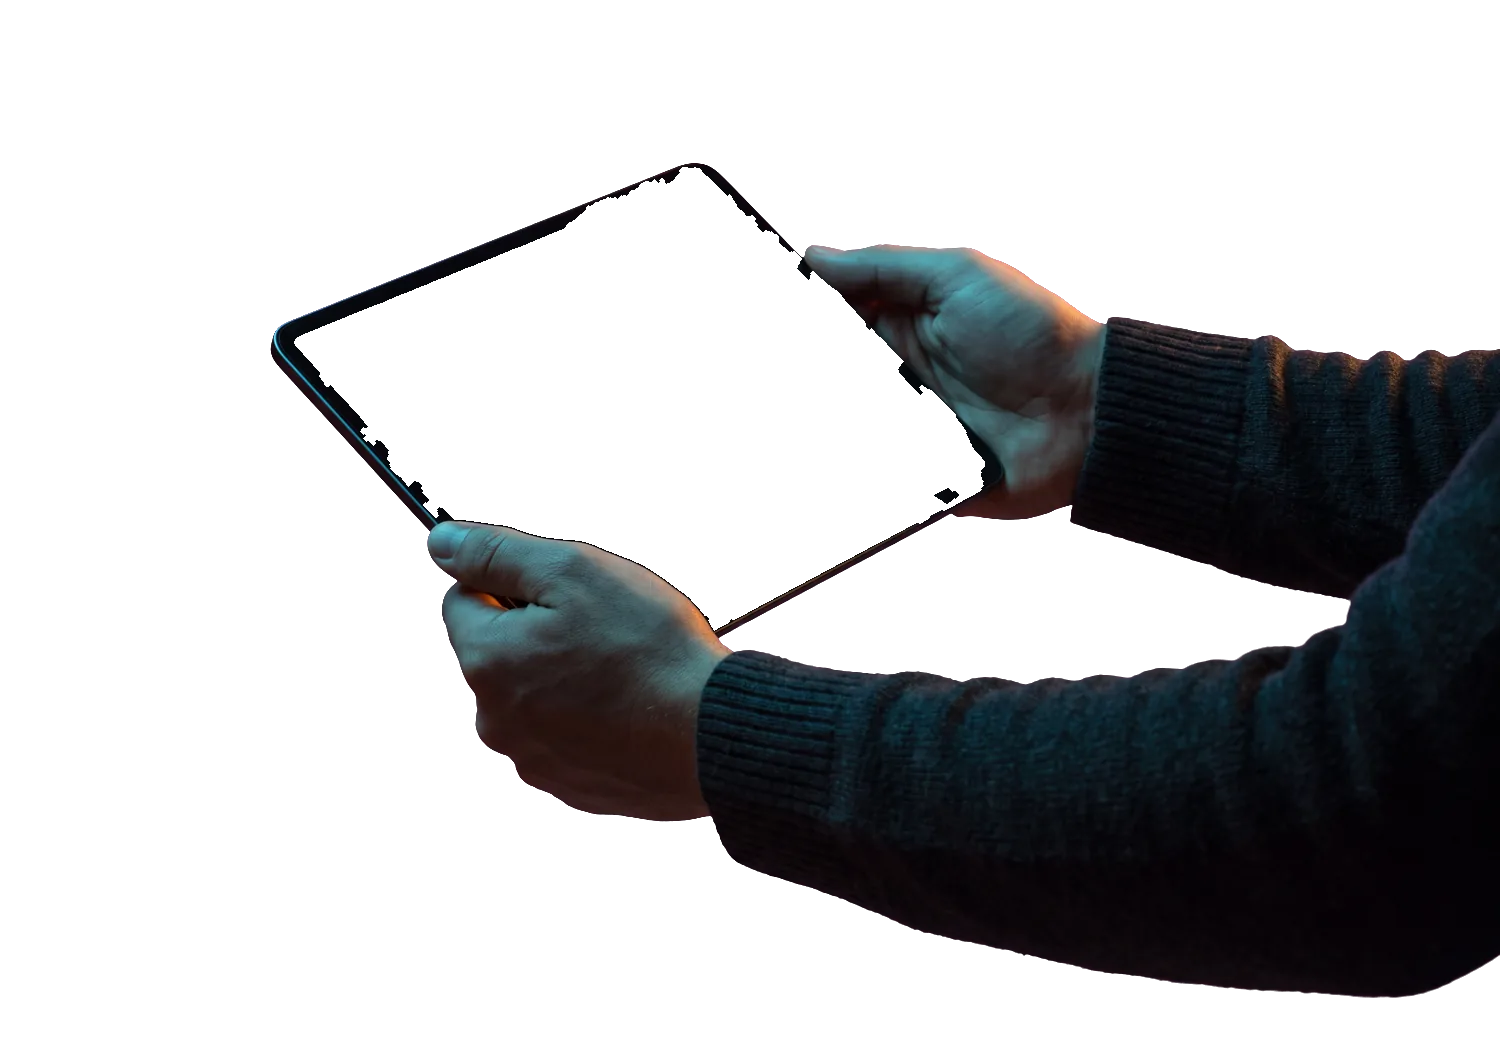
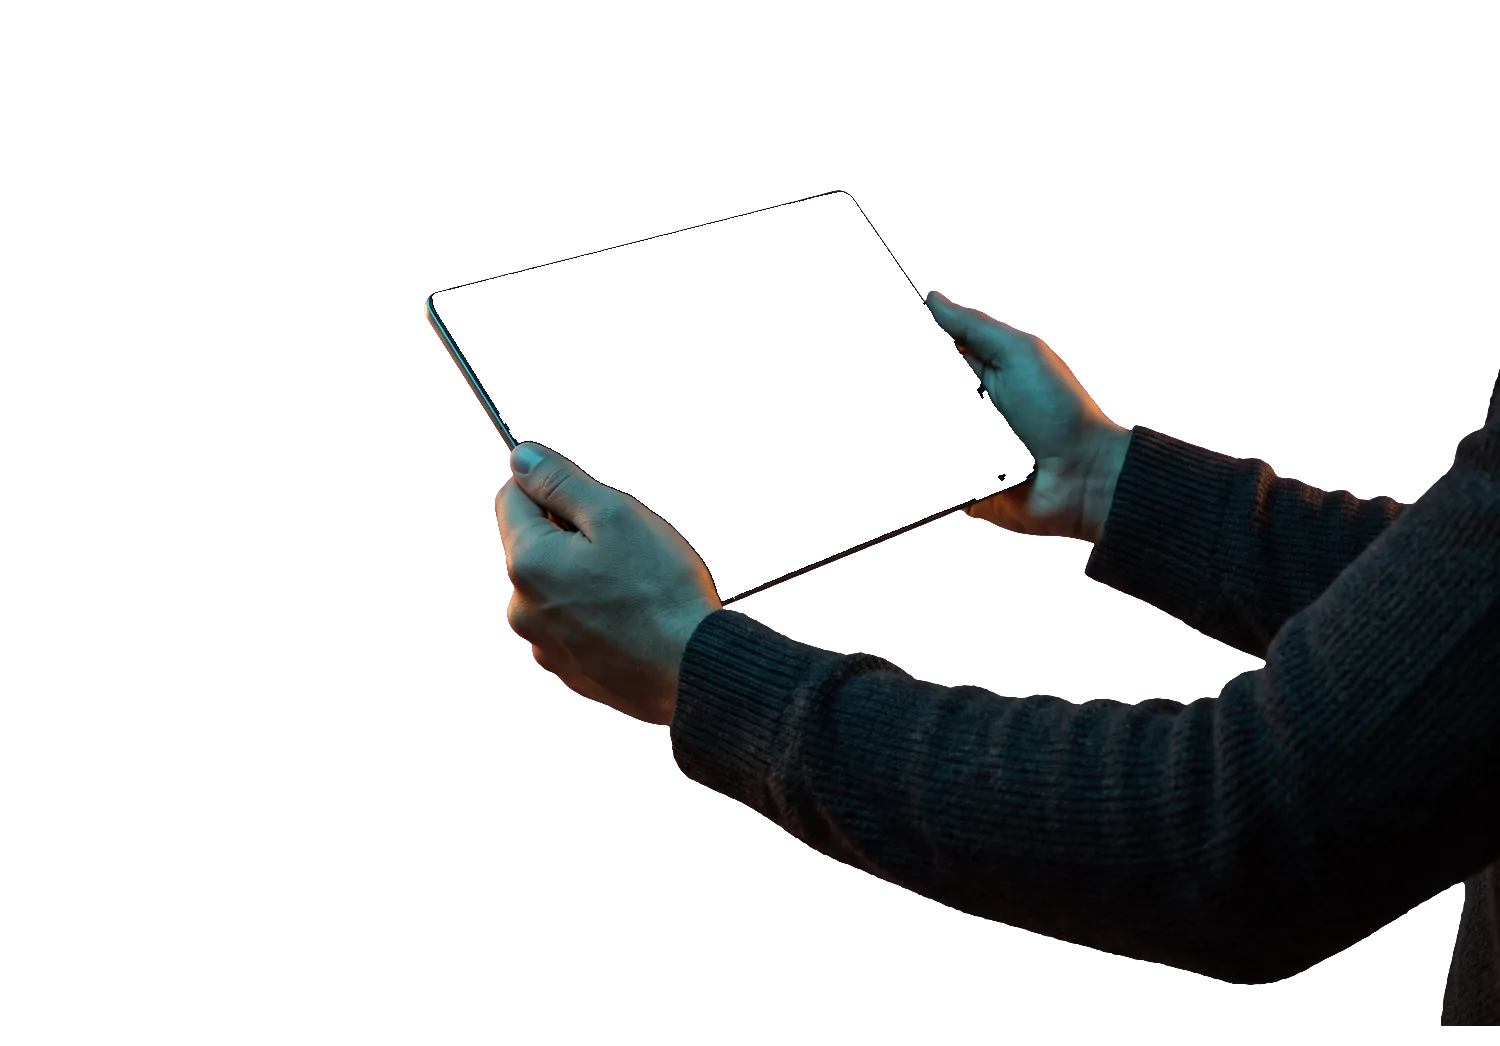
Repareer de glas-fit van kader 1 met een kaderbeeld zonder verdekte hoek.
Het oude kaderbeeld had de linkeronderhoek van het scherm achter een duim. De
meting vond daar een hoek binnen het scherm, en het gevonden vlak was daardoor
geen beeld van een rechthoek meer: teruggerekend met de methode van Zhang kwam
er voor dit vlak geen geldige camera uit, bij geen van de vier draaiingen. De
optimizer loste dat op met een bijna ontaarde keten — perspective(13,7cqw),
determinant 0,029 — en legde het beeld gedraaid en met zwarte wiggen in het
glas.

Twee dingen zijn daarom aangepakt. Er is een nieuw kaderbeeld waarin de handen
het toestel alleen bij de korte zijden beetpakken, zodat alle vier de
schermhoeken vrij liggen; het gevonden vlak volgt daar precies de schermrand.
En de fit mag niet meer onder perspective(60cqw) duiken, zodat hij niet opnieuw
in zo'n ontaarde hoek kan wegzakken.

Kader 1 staat nu op perspective(88,8cqw), overstaande zijden 166/138 en
171/135, verhouding 1,23 — in dezelfde orde als de andere drie (1,26 / 1,36 /
1,68) en met nette convergentie.

Gecontroleerd met een testbeeld in het glas: een 16:9-raster met BOVEN, ONDER,
LINKS en RECHTS, een grote F en gekleurde hoekstippen. Bij alle vier de kaders
staat de F rechtop, niet gespiegeld, met rood linksboven en groen rechtsboven,
rand tot rand. Op /inspiratie/ en op de homepage.

De schermnormaal is opnieuw afgeleid uit de rotatieketen; die afleiding is
nagerekend op de andere drie kaders en komt daar exact uit op de waarden die er
[…]

diff --git a/_sass/components/_cinema-shot.scss b/_sass/components/_cinema-shot.scss
@@ -83,39 +83,45 @@ $cinema-wake: '.strip-grid > [role="listitem"]:hover, .strip-grid > [role="listi
 /* --- vier kaders, vier gemeten glasvlakken ------------------------------- */
 
 /* 1 — tablet liggend in twee handen, van rechtsboven gezien.
-   Glas: 19.6/23.0  46.6/11.1  65.3/32.8  47.6/42.1 cqw (16:9) */
+   Glas: 29.2/19.4  55.8/12.7  69.0/30.6  48.3/40.2 cqw (16:9)
+   De handen pakken dit toestel alleen bij de korte zijden beet, zodat alle vier
+   de schermhoeken vrij liggen. Het vorige kaderbeeld had de linkeronderhoek
+   achter een duim, en de hoek die de meting daar vond lag binnen het scherm:
+   het glasvlak was daardoor geen beeld van een rechthoek meer, de oplossing
+   dook naar perspective(13.7cqw) en het beeld kwam gedraaid en met zwarte
+   wiggen in het glas te liggen. */
 .tablet-shot--cinema,
 .tablet-shot--cinema.tablet-shot--frame-1 {
   --frame-img: url("../images/verhalen/hands-tablet.webp");
   --glass-w: 100cqw;
   --glass-h: 56.25cqw;
-  --glass-x: 44.77cqw;
-  --glass-y: 27.25cqw;
+  --glass-x: 50.57cqw;
+  --glass-y: 25.73cqw;
   --glass-t:
-    translate(92.605cqw, 56.914cqw)
-    perspective(13.698cqw)
-    rotateZ(-32.75deg) rotateY(2.037deg) rotateX(-23.009deg)
-    scale(0.08731)
-    translate(-156.806cqw, -262.7cqw);
+    translate(121.405cqw, 97.248cqw)
+    perspective(88.826cqw)
+    rotateZ(-67.256deg) rotateY(35.986deg) rotateX(-46.758deg)
+    scale(0.14793)
+    translate(-124.172cqw, -471.83cqw);
   /* schermnormaal uit de rotatieketen hierboven: (n-x, n-y) is de kant
      waar een deeltje heen schuift, n-z de diepte die groei wordt */
-  --n-x: +0.239;
-  --n-y: +0.311;
-  --n-z: 0.920;
+  --n-x: +0.827;
+  --n-y: -0.090;
+  --n-z: 0.554;
   /* vorm van een rond deeltje in dit glasvlak */
-  --plane-rot: 22.0deg;
-  --plane-squash: 0.628;
+  --plane-rot: 14.3deg;
+  --plane-squash: 0.502;
   /* de vier gemeten hoeken, voor de geboorteplek over het hele vlak */
-  --glass-ax: 19.6cqw;
-  --glass-ay: 23.0cqw;
-  --glass-bx: 46.6cqw;
-  --glass-by: 11.1cqw;
-  --glass-cx: 65.3cqw;
-  --glass-cy: 32.8cqw;
-  --glass-dx: 47.6cqw;
-  --glass-dy: 42.1cqw;
+  --glass-ax: 29.2cqw;
+  --glass-ay: 19.4cqw;
+  --glass-bx: 55.8cqw;
+  --glass-by: 12.7cqw;
+  --glass-cx: 69.0cqw;
+  --glass-cy: 30.6cqw;
+  --glass-dx: 48.3cqw;
+  --glass-dy: 40.2cqw;
   --tilt: 0deg;
-  --nudge: 4%;
+  --nudge: 0%;
   --lift: 0%;
   --grow: 1;
 }
